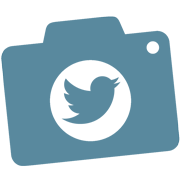
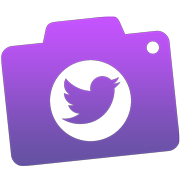
Apply ultraviolet color palette

diff --git a/src/client/App.css b/src/client/App.css
@@ -74,11 +74,11 @@ button {
   transition: all .3s linear;
 }
 input {
-  color: #484848;
+  color: #32004a;
 }
 input::-webkit-input-placeholder,
 input::placeholder {
-  color: #bed6de;
+  color: #cbace0;
 }
 .header {
   display: flex;
@@ -89,11 +89,21 @@ input::placeholder {
   width: 100vw;
   margin: 0 0 80px 0;
   padding: 50px 20px 0;
-  background-color: #59899e;
+  background-color: #6552a2;
   opacity: 0;
   animation: fadeIn 0.4s forwards;
   animation-delay: .3s;
   animation-timing-function: linear;
+  border-bottom: 5px solid #6552a2;
+}
+.header .header__bg {
+  position: absolute;
+  top: 0;
+  left: 0;
+  z-index: -1;
+  width: 100vw;
+  height: 100%;
+  object-fit: cover;
 }
 .header .header__branding {
   display: flex;
@@ -148,7 +158,7 @@ input::placeholder {
   height: 70px;
   padding: 20px 70px 20px 20px;
   border-radius: 35px;
-  border: 5px solid #59899e;
+  border: 5px solid #6552a2;
   outline: 0;
   font-size: 2rem;
 }
@@ -159,7 +169,7 @@ input::placeholder {
   z-index: 1;
   width: 56px;
   height: 56px;
-  background-color: #59899e;
+  background-color: #6552a2;
   border: 5px solid white;
   border-radius: 50%;
   opacity: 0;
@@ -170,7 +180,7 @@ input::placeholder {
   transition: all 0.3s cubic-bezier(0.25, 0.46, 0.45, 0.94);
 }
 .header form .header-form__button:hover {
-  background-color: #78d0e9;
+  background-color: #c653ff;
 }
 .header form .header-form__button .header-form__button-img {
   width: 23px;
@@ -178,8 +188,8 @@ input::placeholder {
 .footer {
   padding: 30px 20px;
   margin: 0;
-  background-color: #192739;
-  color: #327c92;
+  background-color: #6552a2;
+  color: #cbace0;
   font-size: 1.2rem;
 }
 .gallery {
@@ -215,7 +225,7 @@ input::placeholder {
   top: -5px;
 }
 .gallery-card:hover .gallery-card__details-twitter {
-  color: #59899e;
+  color: #6552a2;
 }
 .gallery-card .gallery-card__image {
   width: 100%;
@@ -253,7 +263,7 @@ input::placeholder {
   justify-content: center;
   width: 100vw;
   height: 100vh;
-  background-color: #59899e;
+  background-color: #6552a2;
 }
 .progress .progress__content {
   display: flex;
@@ -332,7 +342,7 @@ input::placeholder {
   height: 300%;
   font-family: 'Poppins', helvetica, sans-serif;
   font-weight: 700;
-  background-color: #59899e;
+  background-color: #6552a2;
   color: #fff;
   font-size: 5rem;
   opacity: 0;
@@ -423,7 +433,7 @@ input::placeholder {
   border: 0;
   border-radius: 22px;
   outline: 0;
-  background-color: #59899e;
+  background: linear-gradient(to bottom, #7478d8 0%, #6552a2 100%);
   color: #fff;
   font-family: 'Poppins', helvetica, sans-serif;
   font-weight: 700;
@@ -439,5 +449,6 @@ input::placeholder {
   animation-timing-function: cubic-bezier(0.25, 0.46, 0.45, 0.94);
 }
 .result .result__button:hover {
-  background-color: #78d0e9;
+  background-color: #c653ff;
+  background: linear-gradient(to bottom, #c653ff 0%, #6552a2 100%);
 }

diff --git a/beta-html/index.html b/beta-html/index.html
@@ -13,10 +13,10 @@
 
     <title>TweetCollage</title>
 
-    <link rel="apple-touch-icon" sizes="180x180" href="img/apple-touch-icon.png?v=0">
-    <link rel="icon" type="image/png" sizes="96x96" href="img/favicon-96x96.png?v=0">  
-    <link rel="icon" type="image/png" sizes="32x32" href="img/favicon-32x32.png?v=0">
-    <link rel="icon" type="image/png" sizes="16x16" href="img/favicon-16x16.png?v=0">
+    <link rel="apple-touch-icon" sizes="180x180" href="img/apple-touch-icon.png?v=1">
+    <link rel="icon" type="image/png" sizes="96x96" href="img/favicon-96x96.png?v=1">  
+    <link rel="icon" type="image/png" sizes="32x32" href="img/favicon-32x32.png?v=1">
+    <link rel="icon" type="image/png" sizes="16x16" href="img/favicon-16x16.png?v=1">
 
     <link href="https://fonts.googleapis.com/css?family=Poppins:300,400,700" rel="stylesheet">
 
@@ -27,6 +27,7 @@
 
     <div class="app">
         <header class="header">
+          <img class="header__bg" src="img/header-bg.jpg">
           <div class="header__branding">
             <img class="header__logo" src="img/logo.png" alt="TweetCollage logo" />
             <img class="header__wordmark" src="img/logo-wordmark-white.png" alt="TweetCollage" />

diff --git a/beta-html/progress.html b/beta-html/progress.html
@@ -13,10 +13,10 @@
 
     <title>TweetCollage</title>
 
-    <link rel="apple-touch-icon" sizes="180x180" href="img/apple-touch-icon.png?v=0">
-    <link rel="icon" type="image/png" sizes="96x96" href="img/favicon-96x96.png?v=0">  
-    <link rel="icon" type="image/png" sizes="32x32" href="img/favicon-32x32.png?v=0">
-    <link rel="icon" type="image/png" sizes="16x16" href="img/favicon-16x16.png?v=0">
+    <link rel="apple-touch-icon" sizes="180x180" href="img/apple-touch-icon.png?v=1">
+    <link rel="icon" type="image/png" sizes="96x96" href="img/favicon-96x96.png?v=1">  
+    <link rel="icon" type="image/png" sizes="32x32" href="img/favicon-32x32.png?v=1">
+    <link rel="icon" type="image/png" sizes="16x16" href="img/favicon-16x16.png?v=1">
 
     <link href="https://fonts.googleapis.com/css?family=Poppins:300,400,700" rel="stylesheet">
 

diff --git a/beta-html/result.html b/beta-html/result.html
@@ -18,10 +18,10 @@
 
     <title>TweetCollage</title>
 
-    <link rel="apple-touch-icon" sizes="180x180" href="img/apple-touch-icon.png?v=0">
-    <link rel="icon" type="image/png" sizes="96x96" href="img/favicon-96x96.png?v=0">  
-    <link rel="icon" type="image/png" sizes="32x32" href="img/favicon-32x32.png?v=0">
-    <link rel="icon" type="image/png" sizes="16x16" href="img/favicon-16x16.png?v=0">
+    <link rel="apple-touch-icon" sizes="180x180" href="img/apple-touch-icon.png?v=1">
+    <link rel="icon" type="image/png" sizes="96x96" href="img/favicon-96x96.png?v=1">  
+    <link rel="icon" type="image/png" sizes="32x32" href="img/favicon-32x32.png?v=1">
+    <link rel="icon" type="image/png" sizes="16x16" href="img/favicon-16x16.png?v=1">
 
     <link href="https://fonts.googleapis.com/css?family=Poppins:300,400,700" rel="stylesheet">
 

diff --git a/beta-html/single.html b/beta-html/single.html
@@ -18,10 +18,10 @@
 
     <title>TweetCollage</title>
 
-    <link rel="apple-touch-icon" sizes="180x180" href="img/apple-touch-icon.png?v=0">
-    <link rel="icon" type="image/png" sizes="96x96" href="img/favicon-96x96.png?v=0">  
-    <link rel="icon" type="image/png" sizes="32x32" href="img/favicon-32x32.png?v=0">
-    <link rel="icon" type="image/png" sizes="16x16" href="img/favicon-16x16.png?v=0">
+    <link rel="apple-touch-icon" sizes="180x180" href="img/apple-touch-icon.png?v=1">
+    <link rel="icon" type="image/png" sizes="96x96" href="img/favicon-96x96.png?v=1">  
+    <link rel="icon" type="image/png" sizes="32x32" href="img/favicon-32x32.png?v=1">
+    <link rel="icon" type="image/png" sizes="16x16" href="img/favicon-16x16.png?v=1">
 
     <link href="https://fonts.googleapis.com/css?family=Poppins:300,400,700" rel="stylesheet">
 

diff --git a/public/index.html b/public/index.html
@@ -16,10 +16,10 @@
 
 
   <!--for loading page only-->
-  <link rel="apple-touch-icon" sizes="180x180" href="img/apple-touch-icon.png?v=0">
-  <link rel="icon" type="image/png" sizes="96x96" href="img/favicon-96x96.png?v=0">  
-  <link rel="icon" type="image/png" sizes="32x32" href="img/favicon-32x32.png?v=0">
-  <link rel="icon" type="image/png" sizes="16x16" href="img/favicon-16x16.png?v=0">
+  <link rel="apple-touch-icon" sizes="180x180" href="./assets/img/apple-touch-icon.png?v=1">
+  <link rel="icon" type="image/png" sizes="96x96" href="./assets/img/favicon-96x96.png?v=1">  
+  <link rel="icon" type="image/png" sizes="32x32" href="./assets/img/favicon-32x32.png?v=1">
+  <link rel="icon" type="image/png" sizes="16x16" href="./assets/img/favicon-16x16.png?v=1">
 </head>
 
 <body>

diff --git a/src/client/less/abstracts/_variables.less b/src/client/less/abstracts/_variables.less
@@ -10,13 +10,13 @@
 
 // Colors
 @brand-color: #93C4D3;
-@brand-secondary-color: #59899e;
-@brand-tertiary-color: #415055;
+@brand-secondary-color: #6552a2;
+@brand-tertiary-color: #32004a;
 @brand-background-color: #f0f0f0;
 @brand-secondary-background-color: #fff;
-@brand-tertiary-background-color: #192739;
+@brand-tertiary-background-color: #32004a;
 @brand-body-text-color: #484848;
-@brand-body-text-on-light-color: #bed6de;
+@brand-body-text-on-light-color: #cbace0;
 @brand-body-text-on-dark-color: #fff;
-@brand-footer-text: #327c92;
-@brand-highlight-color: #78d0e9;
+@brand-footer-text: #7478d8;
+@brand-highlight-color: #c653ff;

diff --git a/src/client/less/pages/_result.less b/src/client/less/pages/_result.less
@@ -87,7 +87,7 @@
     border: 0;
     border-radius: 22px;
     outline: 0;
-    background-color: @brand-secondary-color;
+    background: linear-gradient(to bottom, @brand-footer-text 0%,@brand-secondary-color 100%);
     color: @brand-body-text-on-dark-color;
     .body-font-bold();
     font-size: 1.6rem;
@@ -103,6 +103,7 @@
 
     &:hover {
       background-color: @brand-highlight-color;
+      background: linear-gradient(to bottom, @brand-highlight-color 0%,@brand-secondary-color 100%);
     }
   }
 

diff --git a/src/client/components/Header.js b/src/client/components/Header.js
@@ -3,6 +3,7 @@ import React from 'react';
 export default function Header(props) {
   return (
     <header className="header">
+      <img className="header__bg" src="./public/assets/img/header-bg.jpg" alt="Header background texture" />
       <div className="header__branding">
         <img className="header__logo" src="./public/assets/img/logo.png" alt="TweetCollage logo" />
         <img

diff --git a/src/client/less/layout/_header.less b/src/client/less/layout/_header.less
@@ -12,6 +12,17 @@
   animation: fadeIn 0.4s forwards;
   animation-delay: .3s;
   animation-timing-function: linear;
+  border-bottom: 5px solid @brand-secondary-color;
+
+  .header__bg {
+    position: absolute;
+    top: 0;
+    left: 0;
+    z-index: -1;
+    width: 100vw;
+    height: 100%;
+    object-fit: cover;
+  }
 
   .header__branding {
     display: flex;

diff --git a/src/client/less/layout/_footer.less b/src/client/less/layout/_footer.less
@@ -1,7 +1,7 @@
 .footer {
   padding: 30px 20px;
   margin: 0;
-  background-color: @brand-tertiary-background-color;
-  color: @brand-footer-text;
+  background-color: @brand-secondary-color;
+  color: @brand-body-text-on-light-color;
   font-size: 1.2rem;
 }

diff --git a/src/client/less/base/_base.less b/src/client/less/base/_base.less
@@ -23,7 +23,7 @@ button {
 }
 
 input {
-  color: @brand-body-text-color
+  color: @brand-tertiary-color;
 }
 
 input::-webkit-input-placeholder, input::placeholder { 
